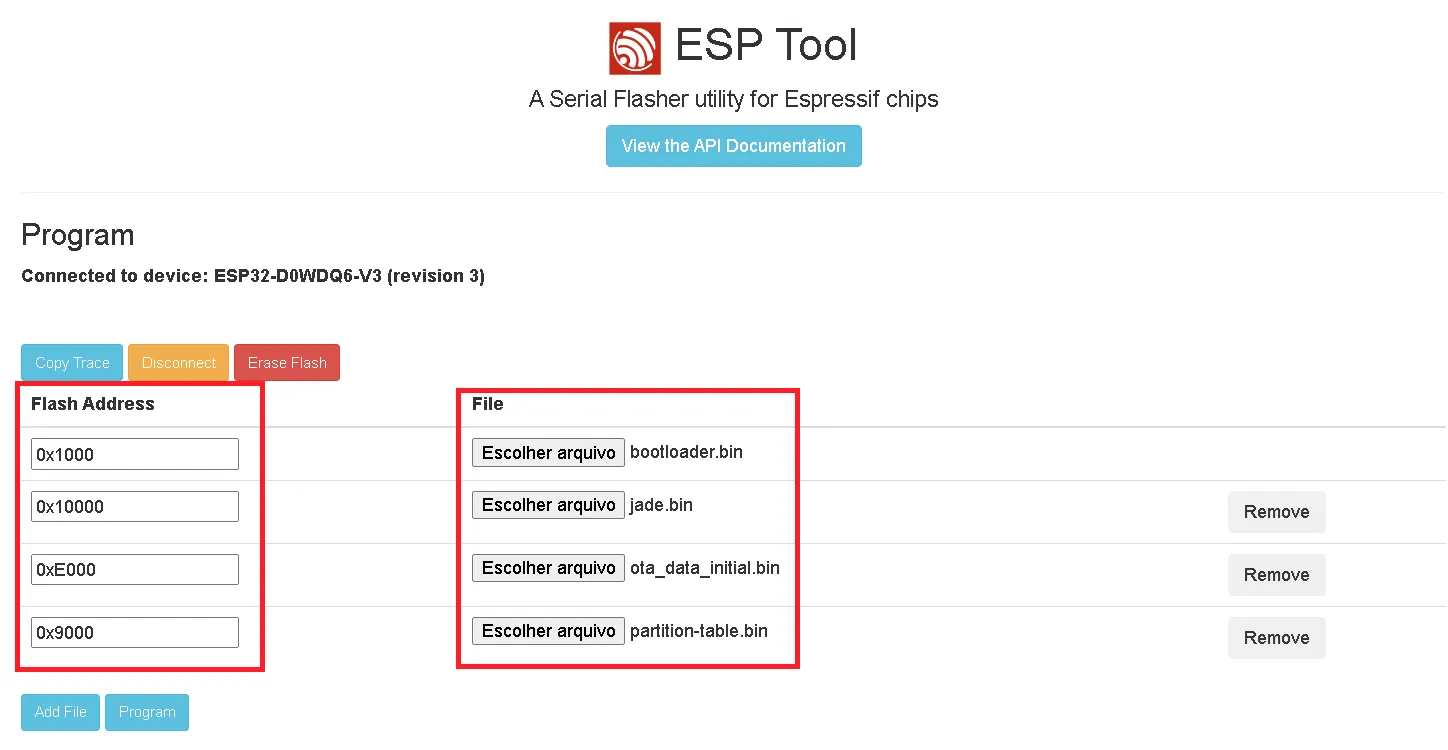
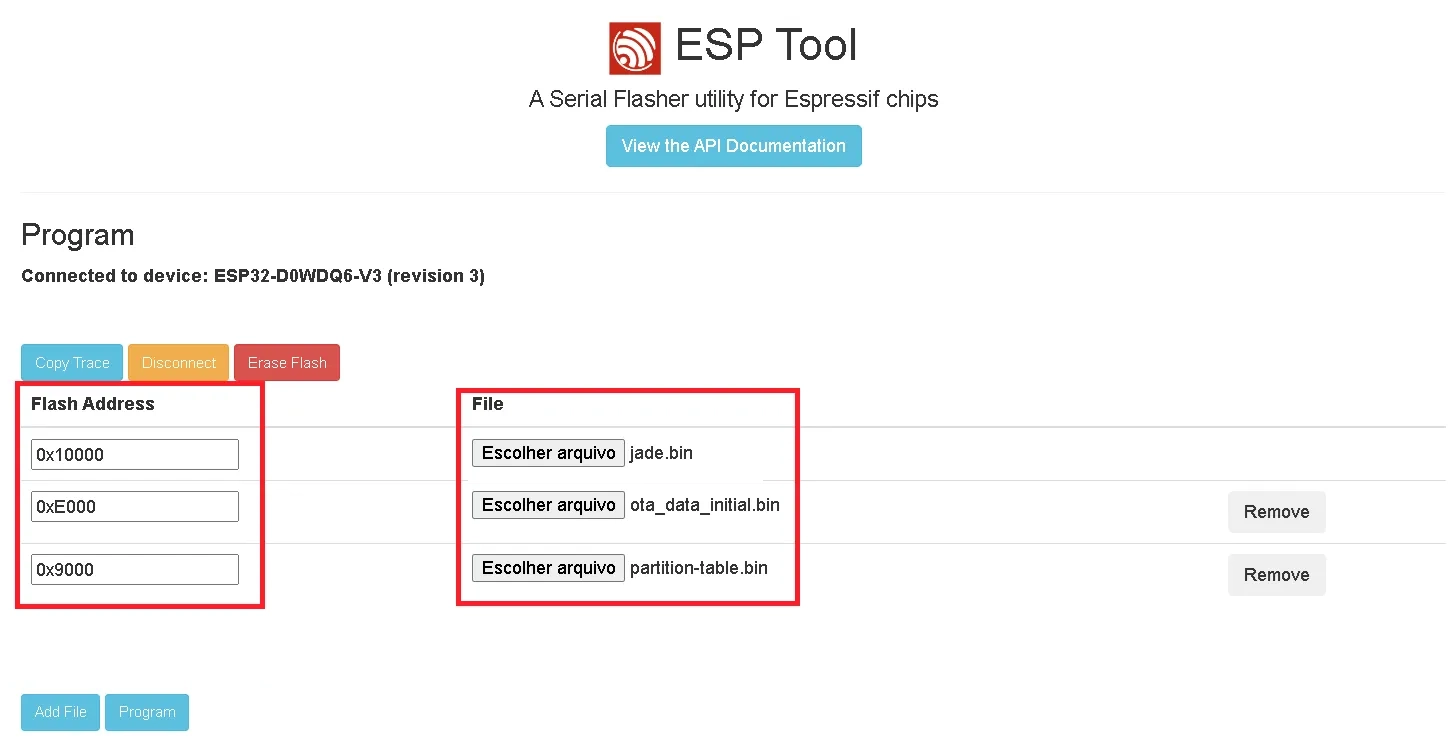
Update some files

diff --git a/atualizar_jade_wallet.md b/atualizar_jade_wallet.md
@@ -30,7 +30,7 @@ Atualizar sua Jade Wallet nunca foi tão fácil. Sério.
 
 ## 🔁 Atualizar Jade Wallet
 
-Guia direto para atualizar o firmware da sua Jade DIY. Tenha os **4 arquivos `.bin`** prontos e um cabo USB. ⚠ Leia atentamente antes de começar.
+Guia direto para atualizar o firmware da sua Jade DIY. Tenha os **3 arquivos `.bin`** prontos e um cabo USB. ⚠ Leia atentamente antes de começar.
 
 ## ⚠ Atenção: Importante!!!
 
@@ -42,7 +42,7 @@ Mantenha este firmware como a única opção de atualização para evitar proble
 
 ## ✅ Checklist antes de começar
 - Cabo USB funcionando (não só carregamento). 🔌  
-- Os **4 arquivos `.bin`** baixados (veja link abaixo). ⬇  
+- Os **3 arquivos `.bin`** baixados (veja link abaixo). ⬇  
 - PC com navegador compatível (Chrome/Edge recomendados). 🖥
 
 **Baixe os arquivos**:  
@@ -76,8 +76,8 @@ Tela preta mostrará logs e vai aparecer **`Connected to device`** no topo quand
   <img src="https://raw.githubusercontent.com/cateim/jade-diy/main/assets/update/step_3.webp" alt="Connected to device" />
 </p>
 
-## 4⃣ Adicionar os 4 arquivos
-O site abre com 1 slot só. Clique **`Add File`** até ter **4 vagas**.
+## 4⃣ Adicionar os 3 arquivos
+O site abre com 1 slot só. Clique **`Add File`** até ter **3 vagas**.
 
 <p align="center">
   <img src="https://raw.githubusercontent.com/cateim/jade-diy/main/assets/update/step_4.webp" alt="Adicionar 4 arquivos" />
@@ -88,8 +88,7 @@ Coloque cada arquivo na ordem abaixo (use **`Escolher arquivo`**):
 
 📁 **Arquivos (ordem):**
 ```py
-bootloader.bin
-jade.bin
+jade-signed.bin
 ota_data_initial.bin
 partition-table.bin
 ```
@@ -98,8 +97,8 @@ partition-table.bin
 
 | Flash Address | File                     |
 | :------------ | :----------------------- |
-| `0x1000`      | `bootloader.bin`         |
-| `0x10000`     | `jade.bin`               |
+| ~~`0x1000`~~      | ~~`bootloader.bin`~~         |
+| `0x10000`     | `jade-signed.bin`               |
 | `0xE000`      | `ota_data_initial.bin`   |
 | `0x9000`      | `partition-table.bin`    |
 
@@ -143,20 +142,20 @@ O chip guarda uma "impressão digital" da nossa chave e nunca mais aceitará um 
 
 ## 🛠 Para Usuários Avançados (Desenvolvedores e Montadores)
 
-Quer customizar ou adicionar seus próprios firmwares? Moleza.
+Quer customizar ou adicionar seus próprios firmwares?
 
 1.  **Estrutura de Pastas:** O projeto espera a seguinte organização:
 
     ```
-    firmware/
-    └── [nome_da_placa]/
-        └── [versao_do_firmware]/
-            ├── bootloader.bin
-            ├── jade.bin (JÁ ASSINADO!)
-            ├── ota_data_initial.bin
-            ├── partition-table.bin
-            └── manifest.json
+	📂 firmware/
+		📂 [nome_da_placa]/
+			📂 [versao_do_firmware]/
+				🔐 jade-signed.bin
+				📦 ota_data_initial.bin
+				📦 partition-table.bin
+				📄 manifest.json
     ```
+
 ## 📌 Créditos
 
 * A **Blockstream**, por criar e manter o projeto incrível que é a Jade.

diff --git a/assinar_secure_boot.md b/assinar_secure_boot.md
@@ -66,20 +66,22 @@ A ideia é ter uma página que permita ao usuário escolher a placa e a versão 
 
 A organização para um **update** é mais simples. Note a ausência do `bootloader.bin`!
 
-```mermaid
-  📂 assets
-   📂 update
-    🖼 logos.png
-  📂 firmware
-    📂 [nome_da_placa]
-      📂 [versao_do_firmware]
-        🔐 jade.bin
-        📦 ota_data_initial.bin
-        📦 partition-table.bin
-        📄 manifest.json
-  📄 LICENSE
-  📄 README.md
-  📄 atualizar_jade_wallet.md
+```
+📂 assets/
+	📂 update
+	🖼 logos.png
+📂 firmware/
+	📂 [nome_da_placa]/
+		📂 [versao_do_firmware]/
+			🔐 jade-signed.bin
+			📦 ota_data_initial.bin
+			📦 partition-table.bin
+			📄 manifest.json
+📄 LICENSE
+📄 README.md
+📄 assinar_secure_boot.md
+📄 atualizar_jade_wallet.md
+⚙ deploy_firmware.ps1
 ```
 
 ### `manifest.json` (O Mapa da Instalação)
